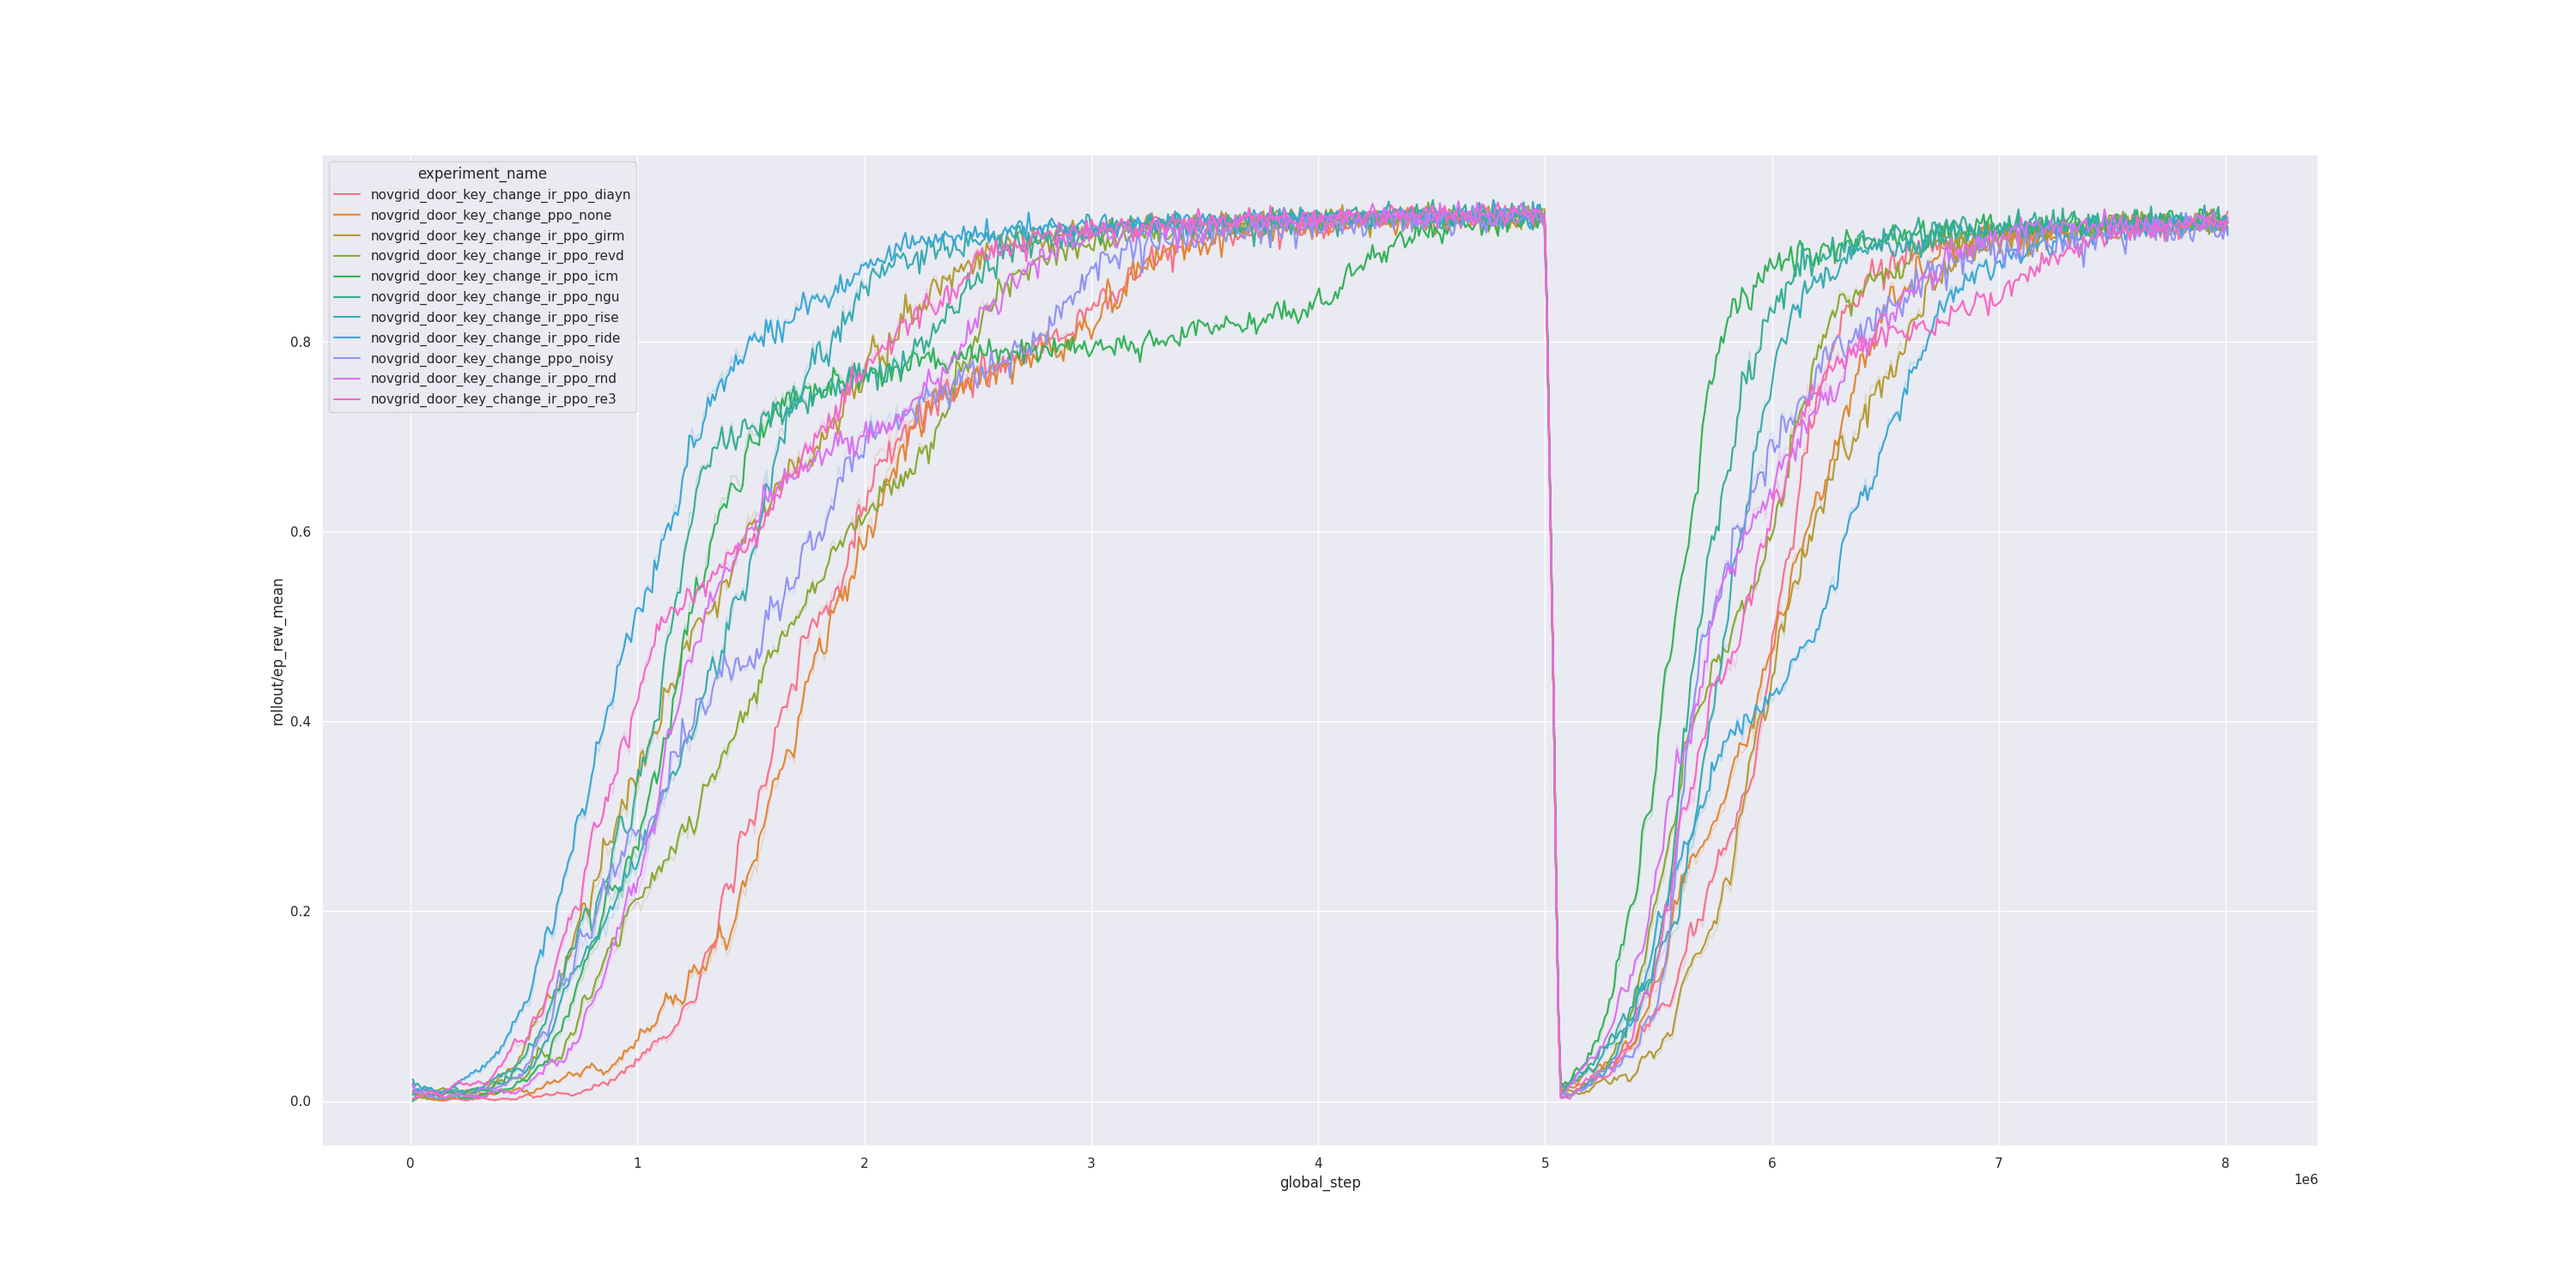
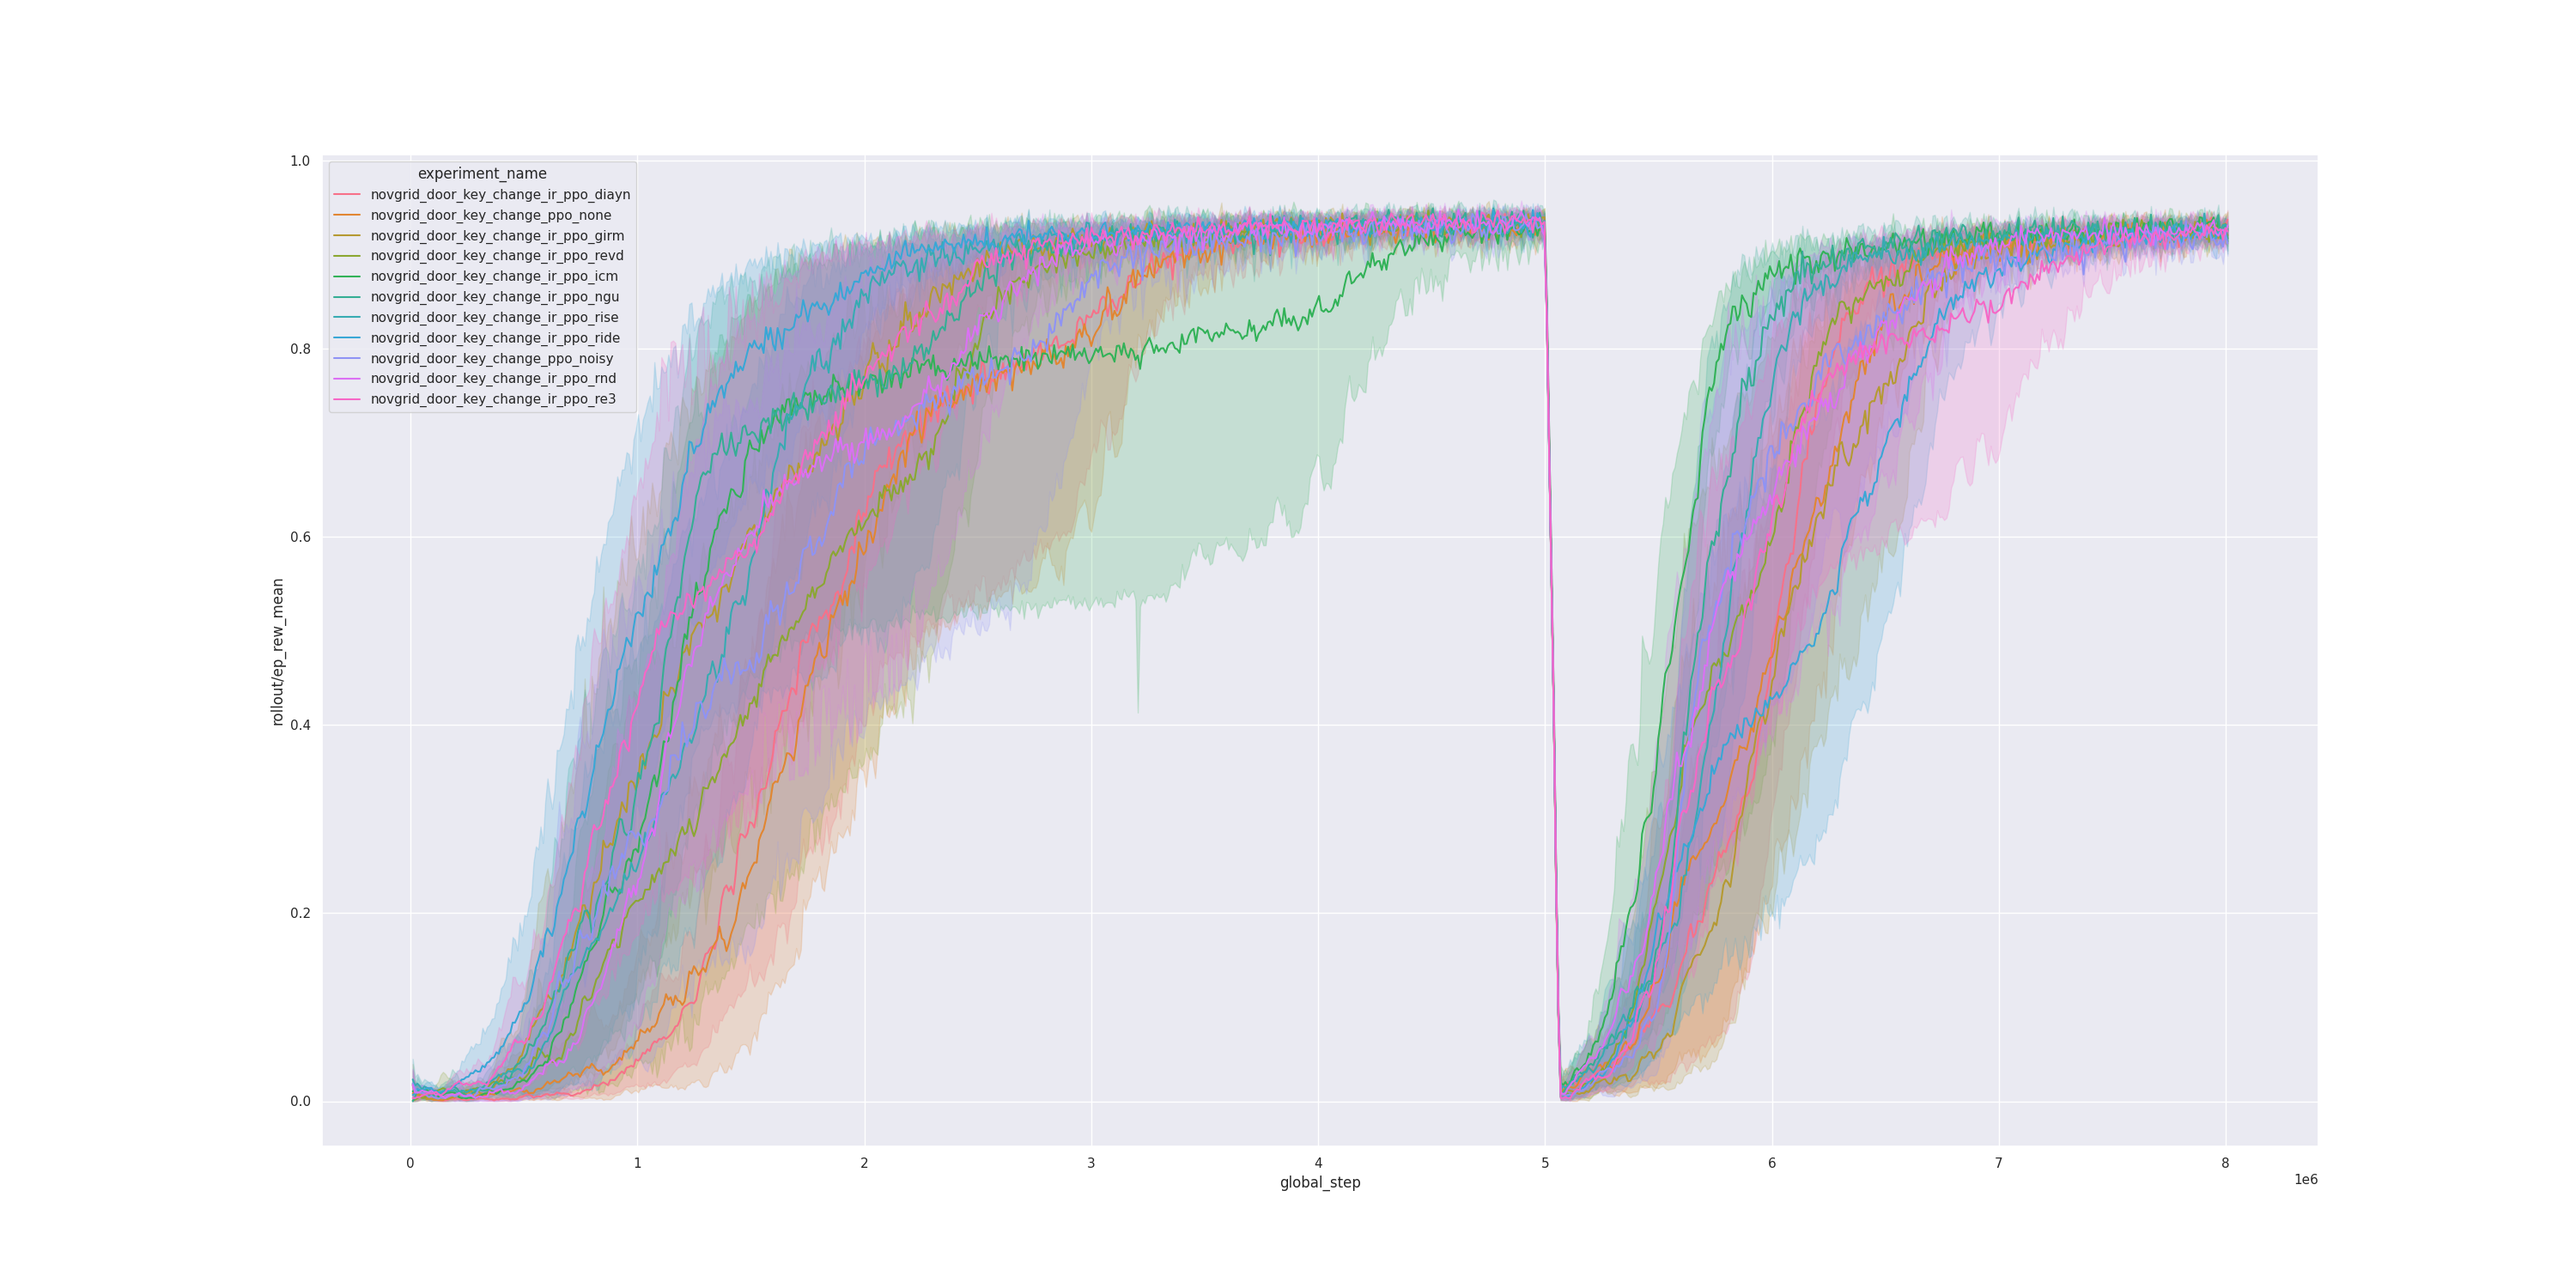
modified plots

Changed region(s): [[0.155, 0.1533, 0.62, 0.8587], [0.589, 0.1533, 0.868, 0.8587]]

diff --git a/experiments/plot_data.py b/experiments/plot_data.py
@@ -92,23 +92,23 @@ def visualize_data(args: argparse.Namespace, df: pd.DataFrame) -> None:
         y="rollout/ep_rew_mean",
         hue="experiment_name",
         data=df,
-        errorbar=make_error_bar_arg(args.error_bar_type, 0),
+        errorbar=make_error_bar_arg(args.error_bar_type, args.error_bar_arg),
         estimator=args.estimator,
     )
     plot.figure.savefig(f"figures/{args.img_name}")
     plt.close()
 
-    for experiment_name_idx in set(df.index.get_level_values("experiment_name_idx")):
-        plot = sns.lineplot(
-            x="global_step",
-            y="rollout/ep_rew_mean",
-            hue="experiment_name",
-            data=df.loc[experiment_name_idx],
-            errorbar=make_error_bar_arg(args.error_bar_type, args.error_bar_arg),
-            estimator=args.estimator,
-        )
-        plot.figure.savefig(f"figures/{experiment_name_idx}_{args.img_name}")
-        plt.close()
+    # for experiment_name_idx in set(df.index.get_level_values("experiment_name_idx")):
+    #     plot = sns.lineplot(
+    #         x="global_step",
+    #         y="rollout/ep_rew_mean",
+    #         hue="experiment_name",
+    #         data=df.loc[experiment_name_idx],
+    #         errorbar=make_error_bar_arg(args.error_bar_type, args.error_bar_arg),
+    #         estimator=args.estimator,
+    #     )
+    #     plot.figure.savefig(f"figures/{experiment_name_idx}_{args.img_name}")
+    #     plt.close()
 
 
 def main(args):
